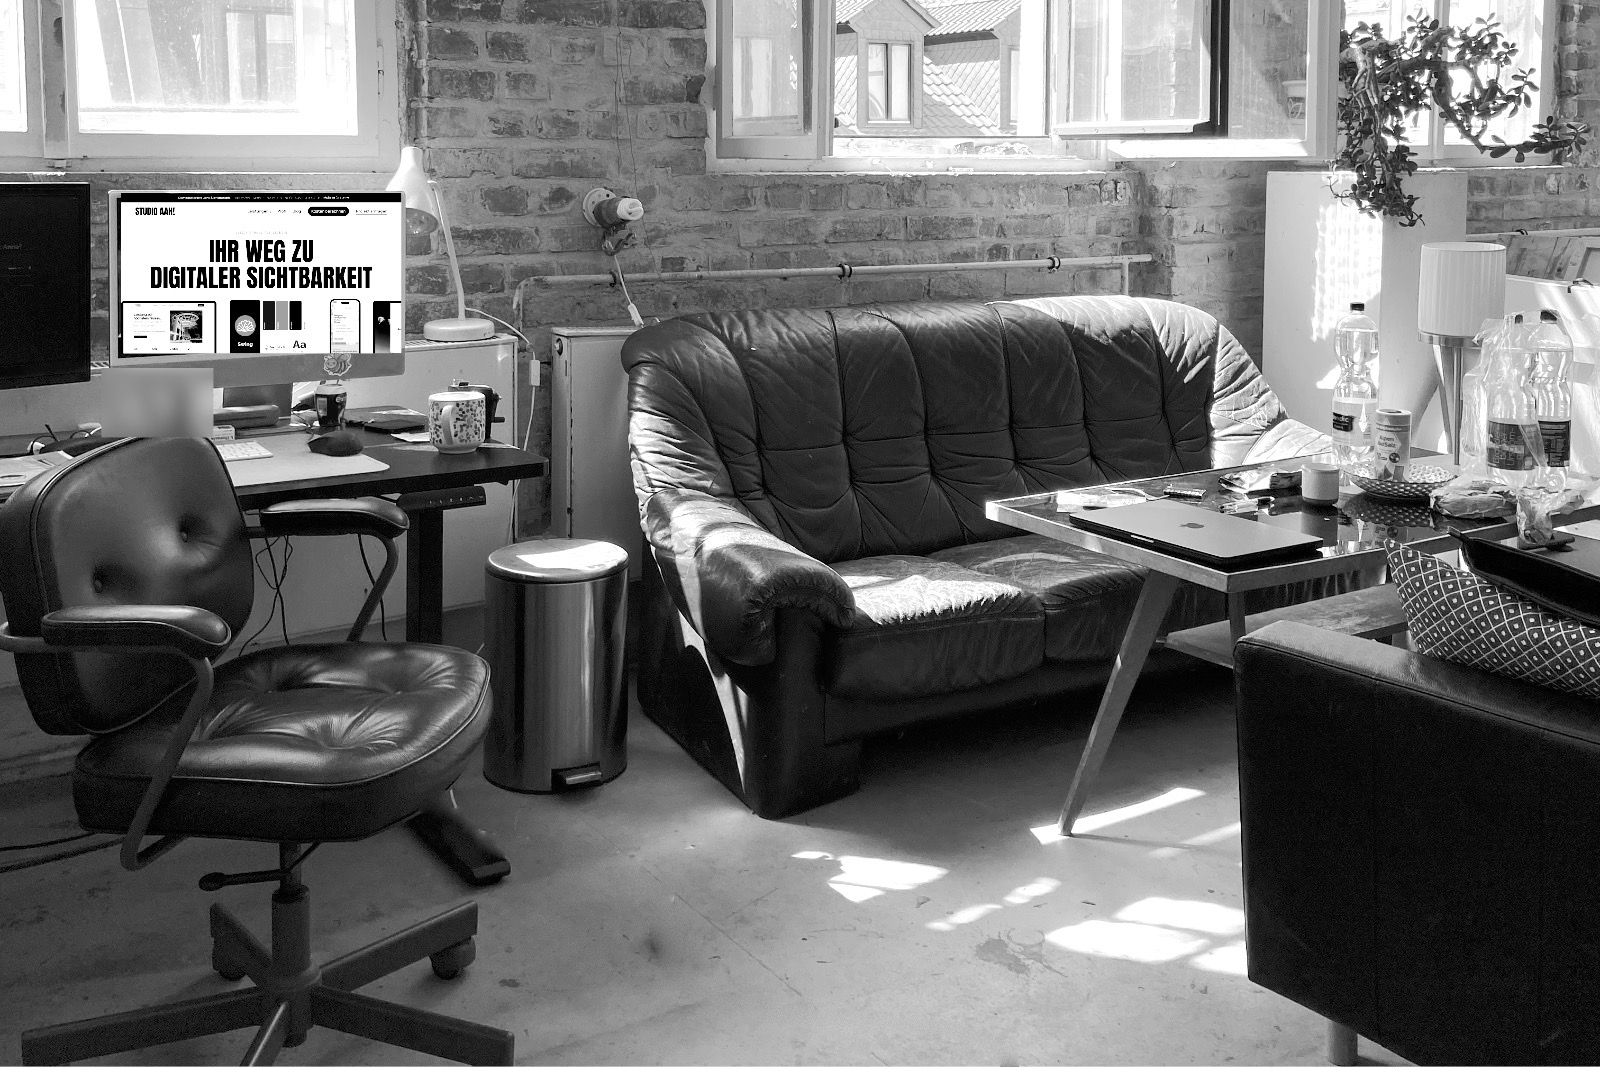
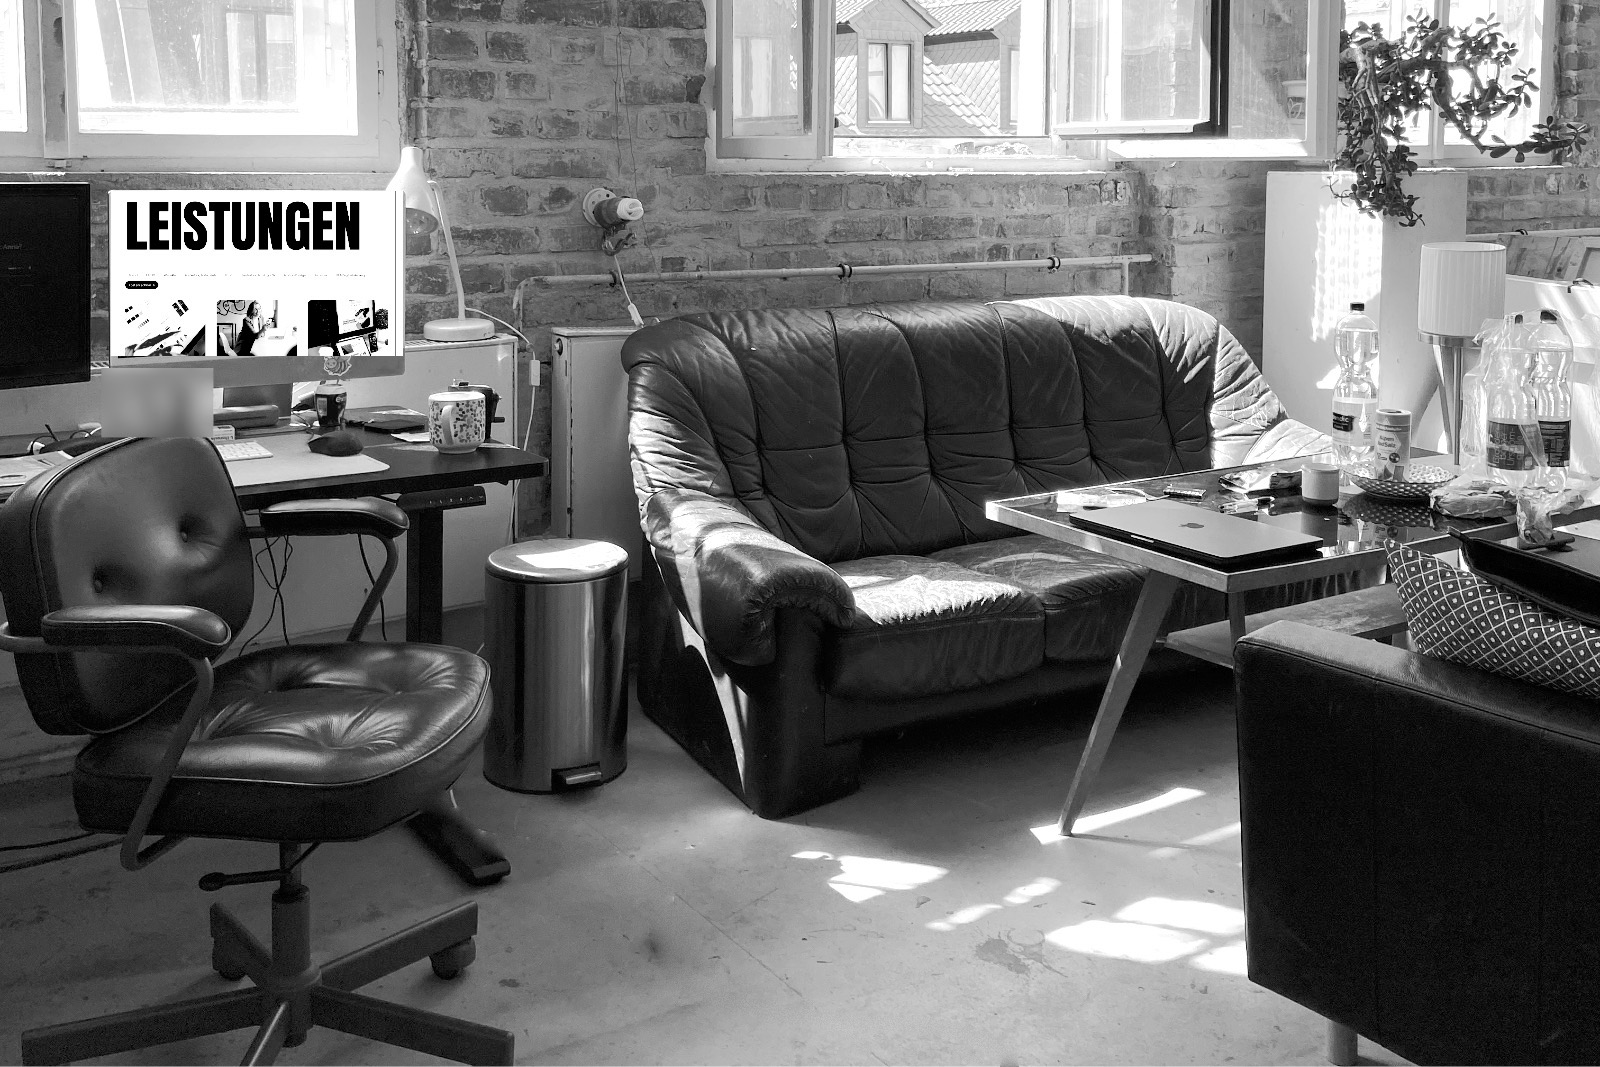
Studio-Foto: Standbild „Leistungen“ fest im Monitor, Hinweis-Punkt über dem Bildschirm mit waagerechter Linie

Changed region(s): [[0.0625, 0.1546, 0.25, 0.3402]]

diff --git a/website/profil/index.html b/website/profil/index.html
@@ -15,7 +15,7 @@
   <meta property="og:description" content="Anna Härtelt ist UX/UI- und Product-Designerin und Gründerin von STUDIO AAH! – strategisches Design für starke Marken mit Haltung und Wirkung.">
   <meta property="og:url" content="https://studio-aah.de/profil/">
   <meta property="og:image" content="https://studio-aah.de/bilder/vorschaubild.jpg">
-  <link rel="stylesheet" href="../css/stil.css?v=20261011x">
+  <link rel="stylesheet" href="../css/stil.css?v=20261011y">
 </head>
 <body>
 <a class="sprunglink" href="#inhalt">Zum Inhalt springen</a>
@@ -86,7 +86,7 @@
   </details>
 </header>
 <div class="mm-schleier" hidden></div>
-<script src="../js/menue.js?v=20261011x" defer></script>
+<script src="../js/menue.js?v=20261011y" defer></script>
 <!-- /KOPF -->
 
 <main id="inhalt">
@@ -149,8 +149,7 @@
     </div>
     <figure class="studio-bild">
       <img src="../bilder/studio-anna-haertelt.jpg" alt="Das Studio von STUDIO AAH!: Schreibtisch mit Bildschirmen und Bürostuhl, ein Ledersofa vor hohen Fenstern und Backsteinwand" width="1600" height="1067" loading="lazy">
-      <span class="studio-monitor" aria-hidden="true"><img src="../bilder/studio-monitor-startseite.jpg" alt="" width="560" height="892" loading="lazy"></span>
-      <span class="studio-punkt oben" style="--x:20%;--y:20%;--i:0;--l:calc(8.6vw - 40px)"><span class="studio-label">Hier entstehen Konzept, Design und Code</span></span>
+      <span class="studio-punkt" style="--x:22.6%;--y:13.5%;--i:0"><span class="studio-label">Hier entstehen Konzept, Design und Code</span></span>
       <span class="studio-punkt" style="--x:16%;--y:62%;--i:1"><span class="studio-label">Hier sitze ich</span></span>
       <span class="studio-ki" role="img" aria-label="Mit KI bearbeitet" title="Mit KI bearbeitet"><svg viewBox="0 0 24 24" aria-hidden="true"><path d="M12 2l1.9 6.1L20 10l-6.1 1.9L12 18l-1.9-6.1L4 10l6.1-1.9z"/></svg></span>
     </figure>
@@ -351,6 +350,6 @@
   </footer>
   <!-- /FUSS -->
 
-  <script src="../js/zaehlen.js?v=20261011x" defer></script>
+  <script src="../js/zaehlen.js?v=20261011y" defer></script>
 </body>
 </html>

diff --git a/website/index.html b/website/index.html
@@ -15,7 +15,7 @@
   <meta property="og:description" content="Design Studio aus Leipzig: Anna Härtelt begleitet Unternehmen und Selbstständige bei Branding, Webdesign, UX/UI-Design und der Einführung von KI.">
   <meta property="og:url" content="https://studio-aah.de/">
   <meta property="og:image" content="https://studio-aah.de/bilder/vorschaubild.jpg">
-  <link rel="stylesheet" href="css/stil.css?v=20261011x">
+  <link rel="stylesheet" href="css/stil.css?v=20261011y">
 </head>
 <body>
 <a class="sprunglink" href="#inhalt">Zum Inhalt springen</a>
@@ -86,7 +86,7 @@
   </details>
 </header>
 <div class="mm-schleier" hidden></div>
-<script src="js/menue.js?v=20261011x" defer></script>
+<script src="js/menue.js?v=20261011y" defer></script>
 <!-- /KOPF -->
 
 <main id="inhalt" class="mit-faden">
@@ -124,8 +124,8 @@
       <div><dt><svg class="fakt-ort" viewBox="0 0 24 24" aria-hidden="true"><path d="M12 22s7-6.6 7-12.5A7 7 0 0 0 5 9.5C5 15.4 12 22 12 22z" fill="none" stroke="currentColor" stroke-width="2.2" stroke-linejoin="round"/><circle cx="12" cy="9.5" r="2.6" fill="none" stroke="currentColor" stroke-width="2.2"/></svg></dt><dd><span class="mit-liebe">Made with Love in Leipzig</span></dd></div>
     </dl>
   </div>
-  <script src="js/hero.js?v=20261011x" defer></script>
-    <script src="js/faden.js?v=20261011x" defer></script>
+  <script src="js/hero.js?v=20261011y" defer></script>
+    <script src="js/faden.js?v=20261011y" defer></script>
 </section>
 
   <section class="intro" aria-labelledby="intro-titel">
@@ -423,6 +423,6 @@
   </footer>
   <!-- /FUSS -->
 
-  <script src="js/zaehlen.js?v=20261011x" defer></script>
+  <script src="js/zaehlen.js?v=20261011y" defer></script>
 </body>
 </html>

diff --git a/website/kontakt/index.html b/website/kontakt/index.html
@@ -15,7 +15,7 @@
   <meta property="og:description" content="Projekt anfragen bei STUDIO AAH!: per E-Mail an info@studio-aah.de oder telefonisch. Das Erstgespräch ist kostenlos und unverbindlich.">
   <meta property="og:url" content="https://studio-aah.de/kontakt/">
   <meta property="og:image" content="https://studio-aah.de/bilder/vorschaubild.jpg">
-  <link rel="stylesheet" href="../css/stil.css?v=20261011x">
+  <link rel="stylesheet" href="../css/stil.css?v=20261011y">
 </head>
 <body>
 <a class="sprunglink" href="#inhalt">Zum Inhalt springen</a>
@@ -86,7 +86,7 @@
   </details>
 </header>
 <div class="mm-schleier" hidden></div>
-<script src="../js/menue.js?v=20261011x" defer></script>
+<script src="../js/menue.js?v=20261011y" defer></script>
 <!-- /KOPF -->
 
 <main id="inhalt">
@@ -113,7 +113,7 @@
   <span class="kopiert" role="status" aria-live="polite"></span>
 </p>
 <p class="hinweis-klein">Öffnet sich kein Mailprogramm? Adresse kopieren und aus Ihrem gewohnten Postfach schreiben.</p>
-<script src="../js/kontakt.js?v=20261011x" defer></script>
+<script src="../js/kontakt.js?v=20261011y" defer></script>
     </div>
   </section>
 

diff --git a/website/preise/index.html b/website/preise/index.html
@@ -15,7 +15,7 @@
   <meta property="og:description" content="Pakete und Einstiegspreise für Branding, Design, Websites, UI/UX, KI und Marketing. Den genauen Festpreis gibt es nach einem kostenlosen Erstgespräch.">
   <meta property="og:url" content="https://studio-aah.de/preise/">
   <meta property="og:image" content="https://studio-aah.de/bilder/vorschaubild.jpg">
-  <link rel="stylesheet" href="../css/stil.css?v=20261011x">
+  <link rel="stylesheet" href="../css/stil.css?v=20261011y">
 </head>
 <body>
 <a class="sprunglink" href="#inhalt">Zum Inhalt springen</a>
@@ -86,7 +86,7 @@
   </details>
 </header>
 <div class="mm-schleier" hidden></div>
-<script src="../js/menue.js?v=20261011x" defer></script>
+<script src="../js/menue.js?v=20261011y" defer></script>
 <!-- /KOPF -->
 
 <main id="inhalt" class="preisseite">
@@ -226,7 +226,7 @@
   </footer>
   <!-- /FUSS -->
 
-<script src="../js/pakete-daten.js?v=20261011x" defer></script>
-<script src="../js/rechner.js?v=20261011x" defer></script>
+<script src="../js/pakete-daten.js?v=20261011y" defer></script>
+<script src="../js/rechner.js?v=20261011y" defer></script>
 </body>
 </html>

diff --git a/website/css/stil.css b/website/css/stil.css
@@ -1214,8 +1214,3 @@ h1, h2, h3, .gr-xxl, .gr-xl, .gr-h2, .gr-klein, .gr-h3, .artikel h1, .mm-karte-t
 /* Kennzeichnung: Foto mit KI bearbeitet (Bildschirminhalt ersetzt, Kabel entfernt) */
 .studio-ki { position: absolute; right: 12px; bottom: 12px; display: grid; place-items: center; width: 26px; height: 26px; border-radius: 50%; background: rgba(14, 16, 17, .72); color: var(--farbe-weiss); cursor: help; }
 .studio-ki svg { width: 12px; height: 12px; fill: currentColor; }
-/* Monitor im Studio-Foto: die Startseite scrollt langsam (liegt genau über dem Bildschirm im Foto) */
-.studio-monitor { position: absolute; left: 6.9%; top: 17.9%; width: 18.4%; height: 15.5%; overflow: hidden; background: var(--farbe-weiss); }
-.studio-monitor img { display: block; width: 100%; height: 100%; object-fit: cover; object-position: 50% 0; filter: grayscale(1) contrast(1.05); animation: studio-scrollen 26s ease-in-out infinite alternate; }
-@keyframes studio-scrollen { 0%, 8% { object-position: 50% 0; } 92%, 100% { object-position: 50% 100%; } }
-@media (prefers-reduced-motion: reduce) { .studio-monitor img { animation: none; } }

diff --git a/website/blog/von-icons-bis-ux-die-wichtigsten-websites-fuer-designerinnen/index.html b/website/blog/von-icons-bis-ux-die-wichtigsten-websites-fuer-designerinnen/index.html
@@ -15,7 +15,7 @@
   <meta property="og:description" content="Eine kuratierte Sammlung nützlicher Websites, Tools und Ressourcen für Webdesigner:innen, UX- und UI-Professionals – von Icon- und Farbtools über Typografie bis hin zu Designsystemen, Inspiration und Lernplattformen.">
   <meta property="og:url" content="https://studio-aah.de/blog/von-icons-bis-ux-die-wichtigsten-websites-fuer-designerinnen/">
   <meta property="og:image" content="https://studio-aah.de/bilder/blog-links.png">
-  <link rel="stylesheet" href="../../css/stil.css?v=20261011x">
+  <link rel="stylesheet" href="../../css/stil.css?v=20261011y">
 </head>
 <body>
 <a class="sprunglink" href="#inhalt">Zum Inhalt springen</a>
@@ -86,7 +86,7 @@
   </details>
 </header>
 <div class="mm-schleier" hidden></div>
-<script src="../../js/menue.js?v=20261011x" defer></script>
+<script src="../../js/menue.js?v=20261011y" defer></script>
 <!-- /KOPF -->
 
 <main id="inhalt">

diff --git a/website/blog/warum-responsives-design-kein-nice-to-have-mehr-ist/index.html b/website/blog/warum-responsives-design-kein-nice-to-have-mehr-ist/index.html
@@ -15,7 +15,7 @@
   <meta property="og:description" content="Warum responsives Design mehr als nur Technik ist: Erfahren Sie, wie Sie mit einer mobilfreundlichen Website Nutzer:innen überzeugen, Vertrauen aufbauen und Ihre Sichtbarkeit bei Google stärken.">
   <meta property="og:url" content="https://studio-aah.de/blog/warum-responsives-design-kein-nice-to-have-mehr-ist/">
   <meta property="og:image" content="https://studio-aah.de/bilder/blog-responsiv.webp">
-  <link rel="stylesheet" href="../../css/stil.css?v=20261011x">
+  <link rel="stylesheet" href="../../css/stil.css?v=20261011y">
 </head>
 <body>
 <a class="sprunglink" href="#inhalt">Zum Inhalt springen</a>
@@ -86,7 +86,7 @@
   </details>
 </header>
 <div class="mm-schleier" hidden></div>
-<script src="../../js/menue.js?v=20261011x" defer></script>
+<script src="../../js/menue.js?v=20261011y" defer></script>
 <!-- /KOPF -->
 
 <main id="inhalt">

diff --git a/website/blog/bildformate-im-web-welche-wirklich-zaehlen/index.html b/website/blog/bildformate-im-web-welche-wirklich-zaehlen/index.html
@@ -15,7 +15,7 @@
   <meta property="og:description" content="Bilder machen eine Website lebendig – oder langsam. Wer das richtige Format wählt, spart Zeit, Daten und Nerven. Ein kleiner Leitfaden für alle, die Design lieben, aber Ladezeiten hassen.">
   <meta property="og:url" content="https://studio-aah.de/blog/bildformate-im-web-welche-wirklich-zaehlen/">
   <meta property="og:image" content="https://studio-aah.de/bilder/blog-bildformate.png">
-  <link rel="stylesheet" href="../../css/stil.css?v=20261011x">
+  <link rel="stylesheet" href="../../css/stil.css?v=20261011y">
 </head>
 <body>
 <a class="sprunglink" href="#inhalt">Zum Inhalt springen</a>
@@ -86,7 +86,7 @@
   </details>
 </header>
 <div class="mm-schleier" hidden></div>
-<script src="../../js/menue.js?v=20261011x" defer></script>
+<script src="../../js/menue.js?v=20261011y" defer></script>
 <!-- /KOPF -->
 
 <main id="inhalt">

diff --git a/website/demokratie-braucht-sichtbarkeit/index.html b/website/demokratie-braucht-sichtbarkeit/index.html
@@ -15,7 +15,7 @@
   <meta property="og:description" content="Du setzt dich für Demokratie, Frauen- und Kinderrechte, Natur- und Tierschutz oder Kunst und Kultur ein? STUDIO AAH! aus Leipzig gestaltet deinen Auftritt – kostenfrei, du zahlst, was es dir wert ist.">
   <meta property="og:url" content="https://studio-aah.de/demokratie-braucht-sichtbarkeit/">
   <meta property="og:image" content="https://studio-aah.de/bilder/vorschaubild.jpg">
-  <link rel="stylesheet" href="../css/stil.css?v=20261011x">
+  <link rel="stylesheet" href="../css/stil.css?v=20261011y">
 </head>
 <body>
 <a class="sprunglink" href="#inhalt">Zum Inhalt springen</a>
@@ -86,7 +86,7 @@
   </details>
 </header>
 <div class="mm-schleier" hidden></div>
-<script src="../js/menue.js?v=20261011x" defer></script>
+<script src="../js/menue.js?v=20261011y" defer></script>
 <!-- /KOPF -->
 
 <main id="inhalt" class="programm">

diff --git a/website/blog/was-ki-an-meiner-arbeit-veraendert-hat/index.html b/website/blog/was-ki-an-meiner-arbeit-veraendert-hat/index.html
@@ -15,7 +15,7 @@
   <meta property="og:description" content="Ein Jahr mit KI im Designalltag: Was sich an meiner Arbeit als UX/UI-Designerin und Webentwicklerin verändert hat, was gleich geblieben ist – und was das für Sie bedeutet.">
   <meta property="og:url" content="https://studio-aah.de/blog/was-ki-an-meiner-arbeit-veraendert-hat/">
   <meta property="og:image" content="https://studio-aah.de/bilder/blog-ki-arbeitsweise.jpg">
-  <link rel="stylesheet" href="../../css/stil.css?v=20261011x">
+  <link rel="stylesheet" href="../../css/stil.css?v=20261011y">
 </head>
 <body>
 <a class="sprunglink" href="#inhalt">Zum Inhalt springen</a>
@@ -86,7 +86,7 @@
   </details>
 </header>
 <div class="mm-schleier" hidden></div>
-<script src="../../js/menue.js?v=20261011x" defer></script>
+<script src="../../js/menue.js?v=20261011y" defer></script>
 <!-- /KOPF -->
 
 <main id="inhalt">

diff --git a/website/service/ki-digitalisierung/index.html b/website/service/ki-digitalisierung/index.html
@@ -15,7 +15,7 @@
   <meta property="og:description" content="KI-Check, KI-Einführung, digitale Abläufe und Schulungen für KMU und Solo-Selbstständige – STUDIO AAH! aus Leipzig, KI-Check ab 900 €.">
   <meta property="og:url" content="https://studio-aah.de/service/ki-digitalisierung/">
   <meta property="og:image" content="https://studio-aah.de/bilder/vorschaubild.jpg">
-  <link rel="stylesheet" href="../../css/stil.css?v=20261011x">
+  <link rel="stylesheet" href="../../css/stil.css?v=20261011y">
   <script type="application/ld+json">
 {
   "@context": "https://schema.org",
@@ -184,7 +184,7 @@
   </details>
 </header>
 <div class="mm-schleier" hidden></div>
-<script src="../../js/menue.js?v=20261011x" defer></script>
+<script src="../../js/menue.js?v=20261011y" defer></script>
 <!-- /KOPF -->
 
 <main id="inhalt">

diff --git a/website/service/brand/index.html b/website/service/brand/index.html
@@ -15,7 +15,7 @@
   <meta property="og:description" content="Markenfindung, Logo, Erscheinungsbild und Markenrichtlinien von STUDIO AAH! aus Leipzig – Pakete ab 850 €, Festpreis nach kostenlosem Erstgespräch.">
   <meta property="og:url" content="https://studio-aah.de/service/brand/">
   <meta property="og:image" content="https://studio-aah.de/bilder/vorschaubild.jpg">
-  <link rel="stylesheet" href="../../css/stil.css?v=20261011x">
+  <link rel="stylesheet" href="../../css/stil.css?v=20261011y">
   <script type="application/ld+json">
 {
   "@context": "https://schema.org",
@@ -184,7 +184,7 @@
   </details>
 </header>
 <div class="mm-schleier" hidden></div>
-<script src="../../js/menue.js?v=20261011x" defer></script>
+<script src="../../js/menue.js?v=20261011y" defer></script>
 <!-- /KOPF -->
 
 <main id="inhalt">
